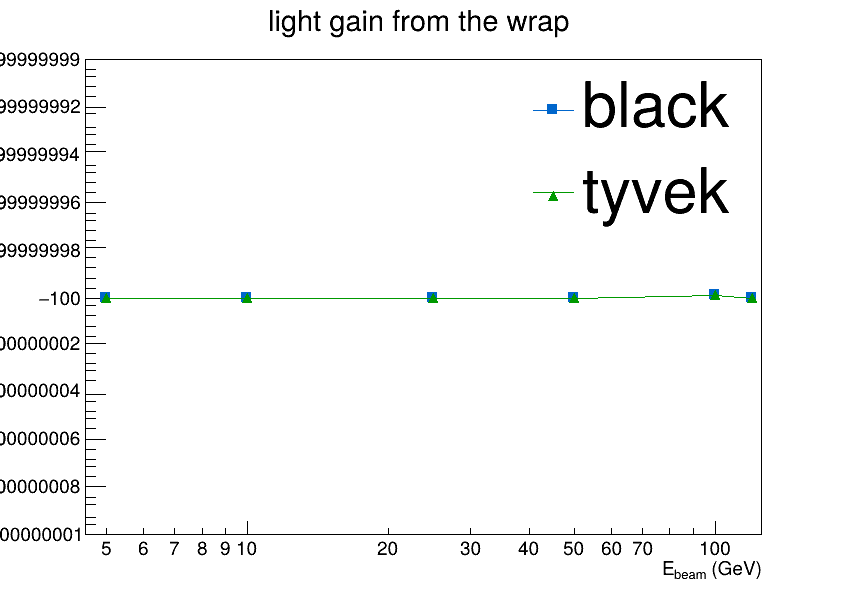
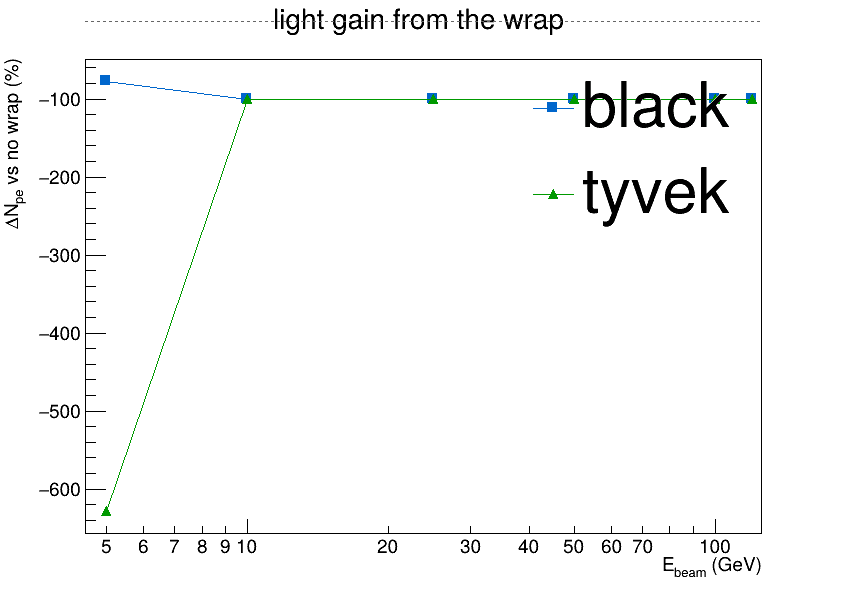
Auto-update: 2026-07-28 13:30

diff --git a/simulations/RADiCALsimWrap/analysis/wrap_scan.C b/simulations/RADiCALsimWrap/analysis/wrap_scan.C
@@ -155,8 +155,13 @@ void wrap_scan(const char* dir = "results") {
             TH1D* nh = fineHist(t, "Npe", "NpeFine");
             if (nh) {
                 coreFit(nh, "", "", mu, sg, sgErr);
-                npe[ic][ie] = mu;
-                res[ic][ie] = (mu > 0) ? 100 * sg / mu : 0;
+                // A fitted mean <= 0 means the fit failed (it happens on very
+                // low statistics, where the Gaussian runs away). Treat it as
+                // no data rather than reporting a negative photon count.
+                if (mu > 0) {
+                    npe[ic][ie] = mu;
+                    res[ic][ie] = 100 * sg / mu;
+                }
                 delete nh;
             }
             f.Close();
